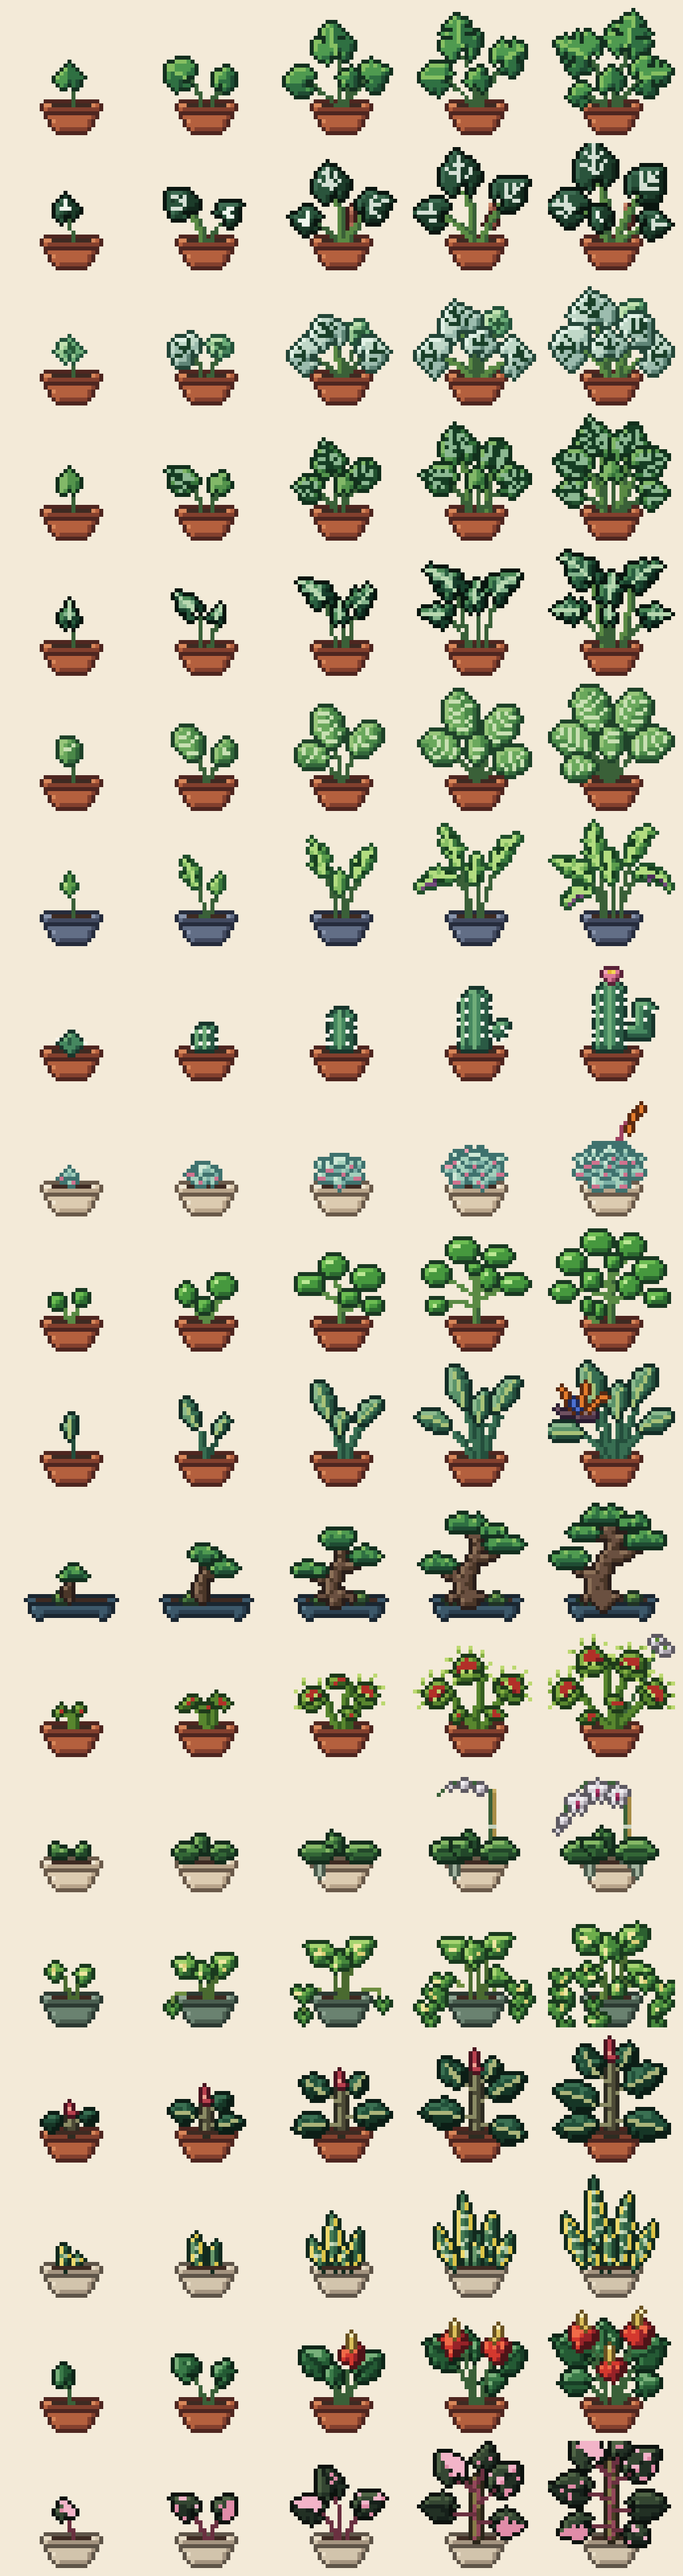
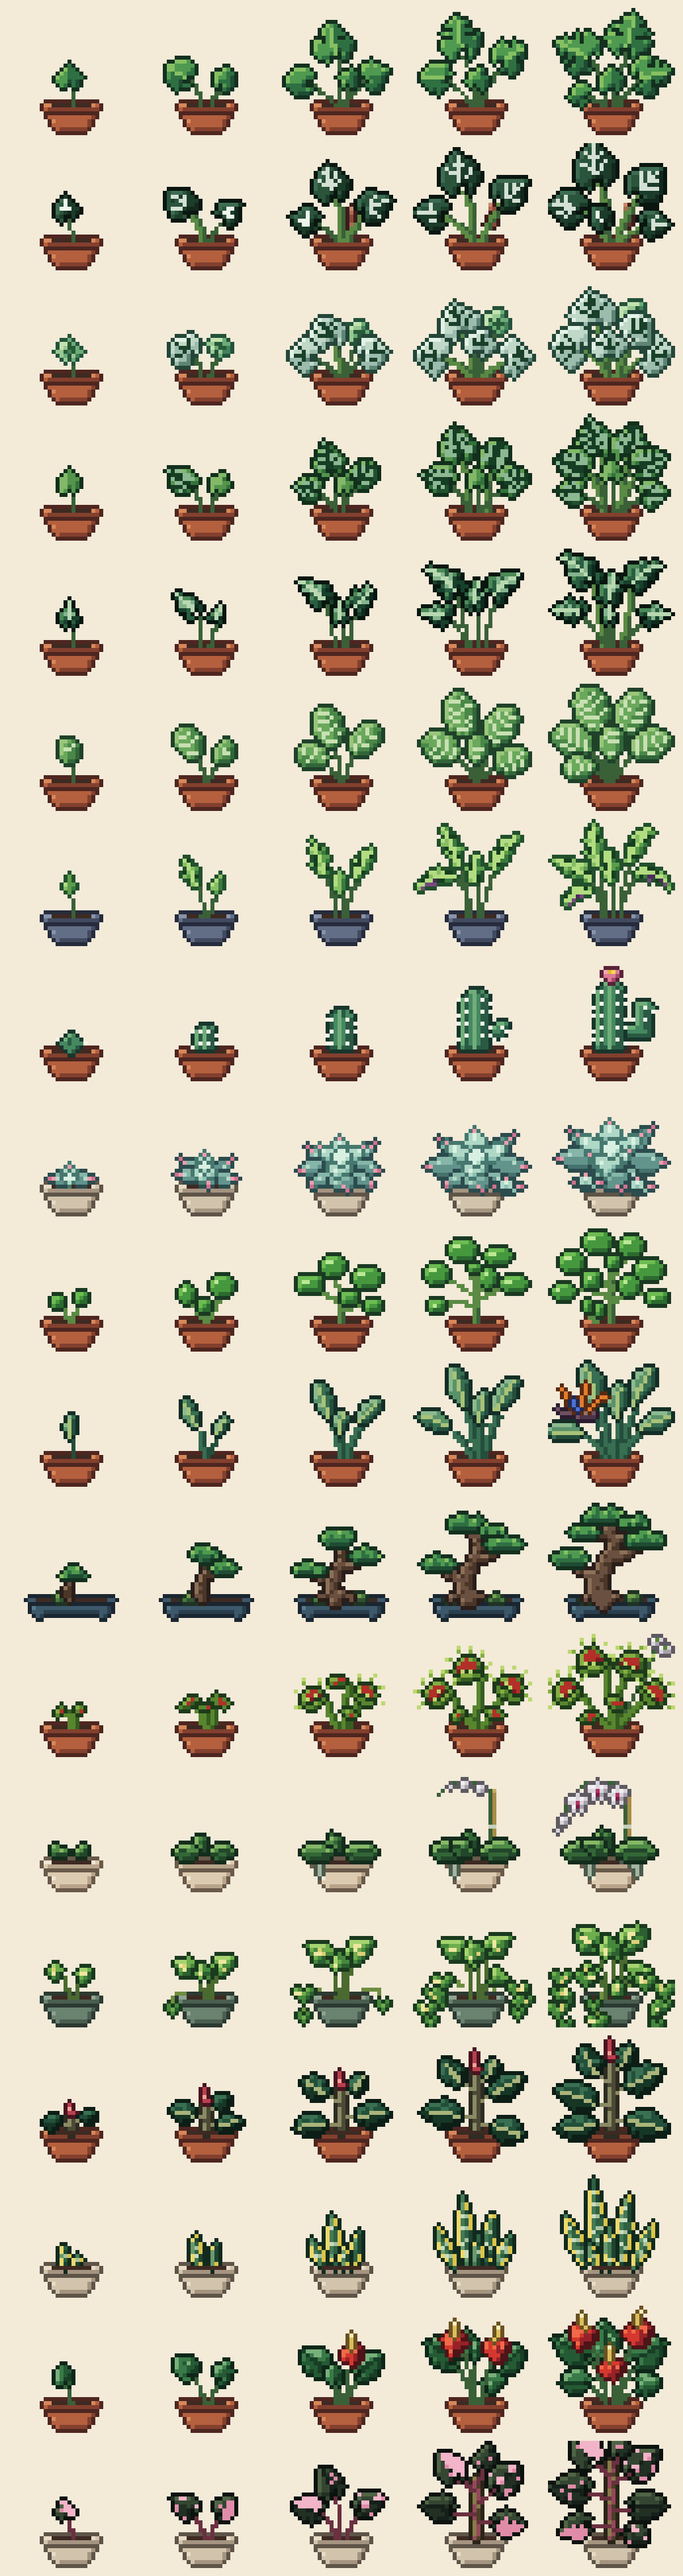
Sukkulente neu gezeichnet (ohne Stiel)
Claude-Session: https://claude.ai/code/session_01B7ErNSTQxDTJ5qoLrRexa5

diff --git a/tools/sprites/plants/sukkulente.py b/tools/sprites/plants/sukkulente.py
@@ -1,91 +1,196 @@
 """Sukkulente (Echeverie) – Pflanzenhandlung.
 
-Dichte, symmetrische Rosette in Schräg-Draufsicht: Jede Blattlage ist ein
-Kranz (gestauchte Ellipse mit spitzen Blattenden). Von außen nach innen werden
-die Kränze kleiner, höher und heller. Blätter blaugrün mit rosa Spitzen,
-feine dunkle Trennlinien und ein Glanzpunkt pro Blatt. Stufe 5: Blütenstiel
-mit orangen Glöckchen.
+Handgezeichnete Pixel-Stempel statt berechneter Formen: jedes Blatt ist ein
+kleines Zeichen-Raster mit festen Tönen und bekommt eine eigene Ebene (also
+eine eigene Outline), damit die dicken, spitzen Blätter klar voneinander
+getrennt bleiben. Leicht schräg von oben gesehen: außen große, dunklere
+blaugrüne Blätter, innen kleinere, hellere, die sich um ein helles Herz
+schließen. Spitzen zart rosa. Ab Stufe 4 sitzen kleine Ableger-Rosetten am
+Topfrand. Kein Blütenstiel.
+
+Stempel-Zeichen: a/b/c/f = Schatten/Basis/Licht/Glanz der Blattrampe,
+l = Licht, h = Glanz, p/q = Rosa (Basis/Licht), . = leer.
+Rampen: ph_echev_dk (Außenblätter), ph_echev_in (Innenblätter, heller,
+weichere Outline), ph_echev_pup (Ableger: hell mit dunkler Outline),
+ph_echev_pink (Spitzen) – siehe palette_pflanzenhandlung.py.
 """
 REGION = "pflanzenhandlung"
 
-import math
-
 from pixel import Sprite, SHADE, BASE, LIGHT, HIGHLIGHT
 from parts import pot
-from parts_pflanzenhandlung import stem
 
-CX = 15.5
-SQ = 0.62
-
-# Kränze: (Blattzahl, Radius, Anhebung, Phase 0..1, Tonindex)
-TIERS = {
-    1: (22.4, [(3, 2.6, 0.0, 0.0, LIGHT), (1, 1.2, 1.2, 0.0, LIGHT)]),
-    2: (21.6, [(5, 4.6, 0.0, 0.0, LIGHT), (3, 2.4, 1.4, 0.5, LIGHT)]),
-    3: (20.6, [(6, 6.4, 0.0, 0.0, LIGHT), (5, 4.2, 1.4, 0.5, LIGHT), (3, 2.0, 2.6, 0.2, HIGHLIGHT)]),
-    4: (19.8, [(7, 8.2, 0.0, 0.0, LIGHT), (6, 5.8, 1.3, 0.5, LIGHT), (5, 3.8, 2.4, 0.2, LIGHT),
-               (3, 1.8, 3.4, 0.6, HIGHLIGHT)]),
-    5: (19.4, [(8, 9.8, 0.0, 0.0, LIGHT), (7, 7.2, 1.2, 0.5, LIGHT), (6, 5.0, 2.3, 0.0, LIGHT),
-               (5, 3.2, 3.3, 0.5, LIGHT), (3, 1.7, 4.2, 0.2, HIGHLIGHT)]),
-}
+T = {"a": SHADE, "b": BASE, "c": LIGHT, "l": LIGHT, "f": HIGHLIGHT, "h": HIGHLIGHT}
+PK = {"p": BASE, "q": LIGHT}
+OUT, MID = "ph_echev_dk", "ph_echev_in"
 
 
-def edge_dist(prof, x, y):
-    """1 = Randpixel, 2 = direkt dahinter, sonst 3."""
-    for k in (1, 2):
-        for a in range(-k, k + 1):
-            for b in range(-k, k + 1):
-                if abs(a) + abs(b) <= k and (x + a, y + b) not in prof:
-                    return k
-    return 3
+def mir(rows):
+    w = max(len(r) for r in rows)
+    return [r.ljust(w, ".")[::-1] for r in rows]
 
 
-def tier(sp, cy, n, R, lift, phase, tone):
-    cyl = cy - lift
-    prof = {}   # (x, y) -> (r_norm, d, ang_idx)
-    for y in range(int(cyl - R * SQ - 3), int(cyl + R * SQ + 3)):
-        for x in range(int(CX - R - 3), int(CX + R + 3)):
-            dx = x + 0.5 - CX
-            dy = (y + 0.5 - cyl) / SQ
-            r = math.hypot(dx, dy)
-            th = math.atan2(dy, dx)
-            m = (th / (2 * math.pi) * n + phase) % 1.0
-            d = abs(m - 0.5) * 2          # 0 = Blattmitte, 1 = Lücke
-            rr = R * (1 - 0.30 * d ** 0.9) if n > 1 else R
-            if r <= rr:
-                prof[(x, y)] = (r / R, d, int(th / (2 * math.pi) * n + phase + 8 * n))
-    body = sp.layer("ph_echev_l")
-    for q in prof:
-        body.px(q[0], q[1], ("a", tone))
-    if n < 2 or R < 2.5:
-        return body
-    ov = sp.layer("ph_echev_l", outline=False, shading=False)
+def stamp(sp, rows, x0, y0, ramp, dim=False):
+    lay = sp.layer(ramp, shading=False)
     pk = sp.layer("ph_echev_pink", outline=False, shading=False)
-    for (x, y), (rn, d, idx) in prof.items():
-        edge = any((x + a, y + b) not in prof for a, b in ((1, 0), (-1, 0), (0, 1), (0, -1)))
-        if d > 0.93 and 0.5 < rn < 0.75 and not edge and R >= 6:
-            ov.px(x, y, SHADE)                 # Trennlinie zwischen Blättern
-        elif d < 0.3 and edge_dist(prof, x, y) <= 1 and (y + 0.5 > cyl - 1 or R < 5):
-            pk.px(x, y, BASE if (y + 0.5 > cyl - 0.3 or x + 0.5 > CX + 1) else LIGHT)
-    # Glanzpunkt je Blatt
-    for i in range(n):
-        th = ((i + 0.5 - phase) / n) * 2 * math.pi
-        gx = CX + math.cos(th) * R * 0.5 - 0.7
-        gy = cyl + math.sin(th) * R * 0.5 * SQ - 0.5
-        q = (math.floor(gx), math.floor(gy))
-        if q in prof and R >= 4.5:
-            ov.px(q[0], q[1], HIGHLIGHT)
-    return body
+    for j, r in enumerate(rows):
+        for i, ch in enumerate(r):
+            if ch == ".":
+                continue
+            x, y = x0 + i, y0 + j
+            if ch in T:
+                t = T[ch]
+                if dim and ch == "c" and j > 0:   # rechte Seite liegt etwas im Schatten
+                    t = BASE
+                lay.px(x, y, t)
+            else:
+                lay.px(x, y, BASE)
+                pk.px(x, y, PK[ch])
+
+
+# ---------- große Außenblätter ----------
+L_W = ["...ccccc.",
+       ".ccfcccbb",
+       "pqbbbbbbb",
+       "..bbbbbbb",
+       "...aaaaa."]
+L_NW = ["p.......",
+        ".qcc....",
+        ".cfccc..",
+        "..cbbbb.",
+        "..cbbbbb",
+        "...bbbbb",
+        "....aaa."]
+L_S = ["cccccccb",
+       "cfccbbbb",
+       ".bbbbbba",
+       "..abbqa.",
+       "......p."]
+# ---------- mittlere Außenblätter ----------
+m_W = ["..cccc",
+       ".cfccb",
+       "pqbbbb",
+       "..aaaa"]
+m_NW = ["p.....",
+        ".qcc..",
+        ".cfcbb",
+        "..cbbb",
+        "...bbb"]
+m_SW = ["..cccc",
+        ".cfcbb",
+        "qbbbba",
+        "pa...."]
+m_S = ["cccccb",
+       "cfcbbb",
+       ".bbqba",
+       "....p."]
+# ---------- kleine Außenblätter ----------
+t_W = ["..ccc",
+       "pqfcb",
+       "..bbb"]
+t_S = ["cccb",
+       "bbqb",
+       "..p."]
+# ---------- Innenblätter (heller) ----------
+M_N = ["..q..",
+       ".lhl.",
+       ".lhll",
+       "lllll",
+       ".bbb."]
+M_NW = ["q......",
+        ".lhl...",
+        ".lhlll.",
+        "..lllll",
+        "...bbbb"]
+M_S = ["llllll",
+       "lhllll",
+       ".lllb.",
+       "..lb..",
+       "..b..."]
+s_N = [".q.",
+       "lhl",
+       "lll",
+       ".b."]
+s_NW = ["q....",
+        ".hll.",
+        ".llll",
+        "..bbb"]
+s_S = ["lllll",
+       "lhllb",
+       ".lb.."]
+CORE = [".hh.",
+        "hhhh",
+        "hhhl",
+        ".hl."]
+CORE_S = [".h.",
+          "hhh",
+          ".l."]
+# ---------- Ableger ----------
+PUP_SIDE = ["..cc",
+            "pqcb",
+            "..bb"]
+PUP_MID = [".q.",
+           "lhl",
+           "lbl"]
+PUP = "ph_echev_pup"
+
+
+def offset(x, y, flip=False):
+    """Ableger-Rosette, ca. 9×5 inkl. Outline; (x, y) = linke obere Ecke."""
+    l, r = (PUP_SIDE, x), (mir(PUP_SIDE), x + 4)
+    return [(l[0], l[1], y + 1, PUP, False), (r[0], r[1], y + 1, PUP, True),
+            (PUP_MID, x + 2, y, PUP, False)]
+
+
+def stage1():
+    return [(t_W, 10, 21, OUT, False), (mir(t_W), 17, 21, OUT, True),
+            (s_N, 14, 19, MID, False), (CORE_S, 14, 21, MID, False)]
+
+
+def stage2():
+    return [(m_NW, 9, 17, OUT, False), (mir(m_NW), 17, 17, OUT, True),
+            (t_W, 8, 20, OUT, False), (mir(t_W), 19, 21, OUT, True),
+            (t_S, 14, 22, OUT, False),
+            (s_N, 14, 16, MID, False),
+            (s_S, 13, 20, MID, False), (CORE_S, 14, 18, MID, False)]
+
+
+def stage3():
+    return [(m_NW, 7, 14, OUT, False), (mir(m_NW), 19, 13, OUT, True),
+            (m_W, 5, 18, OUT, False), (mir(m_W), 20, 18, OUT, True),
+            (m_SW, 8, 21, OUT, False), (mir(m_SW), 18, 21, OUT, True),
+            (m_S, 13, 22, OUT, False),
+            (s_N, 14, 12, MID, False),
+            (s_NW, 10, 14, MID, False), (mir(s_NW), 17, 14, MID, True),
+            (s_S, 13, 19, MID, False), (CORE, 14, 15, MID, False)]
+
+
+def stage4():
+    return [(L_NW, 6, 12, OUT, False), (mir(L_NW), 18, 11, OUT, True),
+            (L_W, 3, 17, OUT, False), (mir(L_W), 20, 17, OUT, True),
+            (m_SW, 8, 21, OUT, False), (mir(m_SW), 18, 21, OUT, True),
+            (m_S, 13, 22, OUT, False),
+            (M_N, 13, 10, MID, False),
+            (M_NW, 8, 13, MID, False), (mir(M_NW), 17, 13, MID, True),
+            (s_S, 13, 19, MID, False), (CORE, 14, 15, MID, False)] + offset(20, 22)
+
+
+def stage5():
+    return [(L_NW, 5, 10, OUT, False), (mir(L_NW), 19, 9, OUT, True),
+            (L_W, 2, 15, OUT, False), (mir(L_W), 21, 16, OUT, True),
+            (m_SW, 8, 21, OUT, False), (mir(m_SW), 18, 20, OUT, True),
+            (L_S, 12, 21, OUT, False),
+            (M_N, 13, 8, MID, False),
+            (M_NW, 7, 11, MID, False), (mir(M_NW), 17, 11, MID, True),
+            (s_NW, 10, 16, MID, False), (mir(s_NW), 16, 15, MID, True),
+            (M_S, 12, 17, MID, False), (CORE, 14, 13, MID, False)] + offset(6, 21) + offset(19, 22)
+
+
+STAGES = {1: stage1, 2: stage2, 3: stage3, 4: stage4, 5: stage5}
 
 
 def draw(stage: int) -> Sprite:
     sp = Sprite()
-    pot(sp, "cream")
-    cy, tiers = TIERS[stage]
-    if stage == 5:
-        stem(sp, 17.5, 14, 22.5, 4, bend=-3, ramp="ph_echev_pink")
-        for (bx_, by_) in ((21.5, 6.5), (23.5, 4.5), (20.2, 9)):
-            b = sp.layer("petal_orange")
-            b.rect(int(bx_), int(by_), int(bx_), int(by_) + 1)
-    for (n, R, lift, phase, tone) in tiers:
-        tier(sp, cy, n, R, lift, phase, tone)
+    pot(sp, "ph_pot_cream")
+    for rows, x, y, ramp, dim in STAGES[stage]():
+        stamp(sp, rows, x, y, ramp, dim)
     return sp

diff --git a/tools/sprites/palette_pflanzenhandlung.py b/tools/sprites/palette_pflanzenhandlung.py
@@ -36,6 +36,9 @@ EXTRA = {
     "ph_echev":        ["#36605e", "#548a86", "#7cb0a6", "#a4d0bc", "#cfe8d6"],
     "ph_echev_l":      ["#3f726e", "#548a86", "#7cb0a6", "#a4d0bc", "#cfe8d6"],  # Blattränder innerhalb der Rosette (weicher)
     "ph_echev_pink":   ["#5e243c", "#a04260", "#d0728e", "#ec9cae", "#f8c6cc"],
+    "ph_echev_dk":     ["#2c4c4e", "#46726e", "#62948c", "#86b6a8", "#b4d8c8"],  # Außenblätter (dunkler)
+    "ph_echev_in":     ["#46786f", "#6a9e96", "#8ec0b2", "#b0d8c6", "#d8f0e2"],  # Innenblätter (heller, weiche Outline)
+    "ph_echev_pup":    ["#2c4c4e", "#6a9e96", "#8ec0b2", "#b0d8c6", "#d8f0e2"],  # Ableger: hell, dunkle Outline
 
     # Pilea: frisches, glänzendes Mittelgrün
     "ph_pilea":        ["#1a3a22", "#2c6a30", "#46983e", "#6cbc52", "#bce894"],
